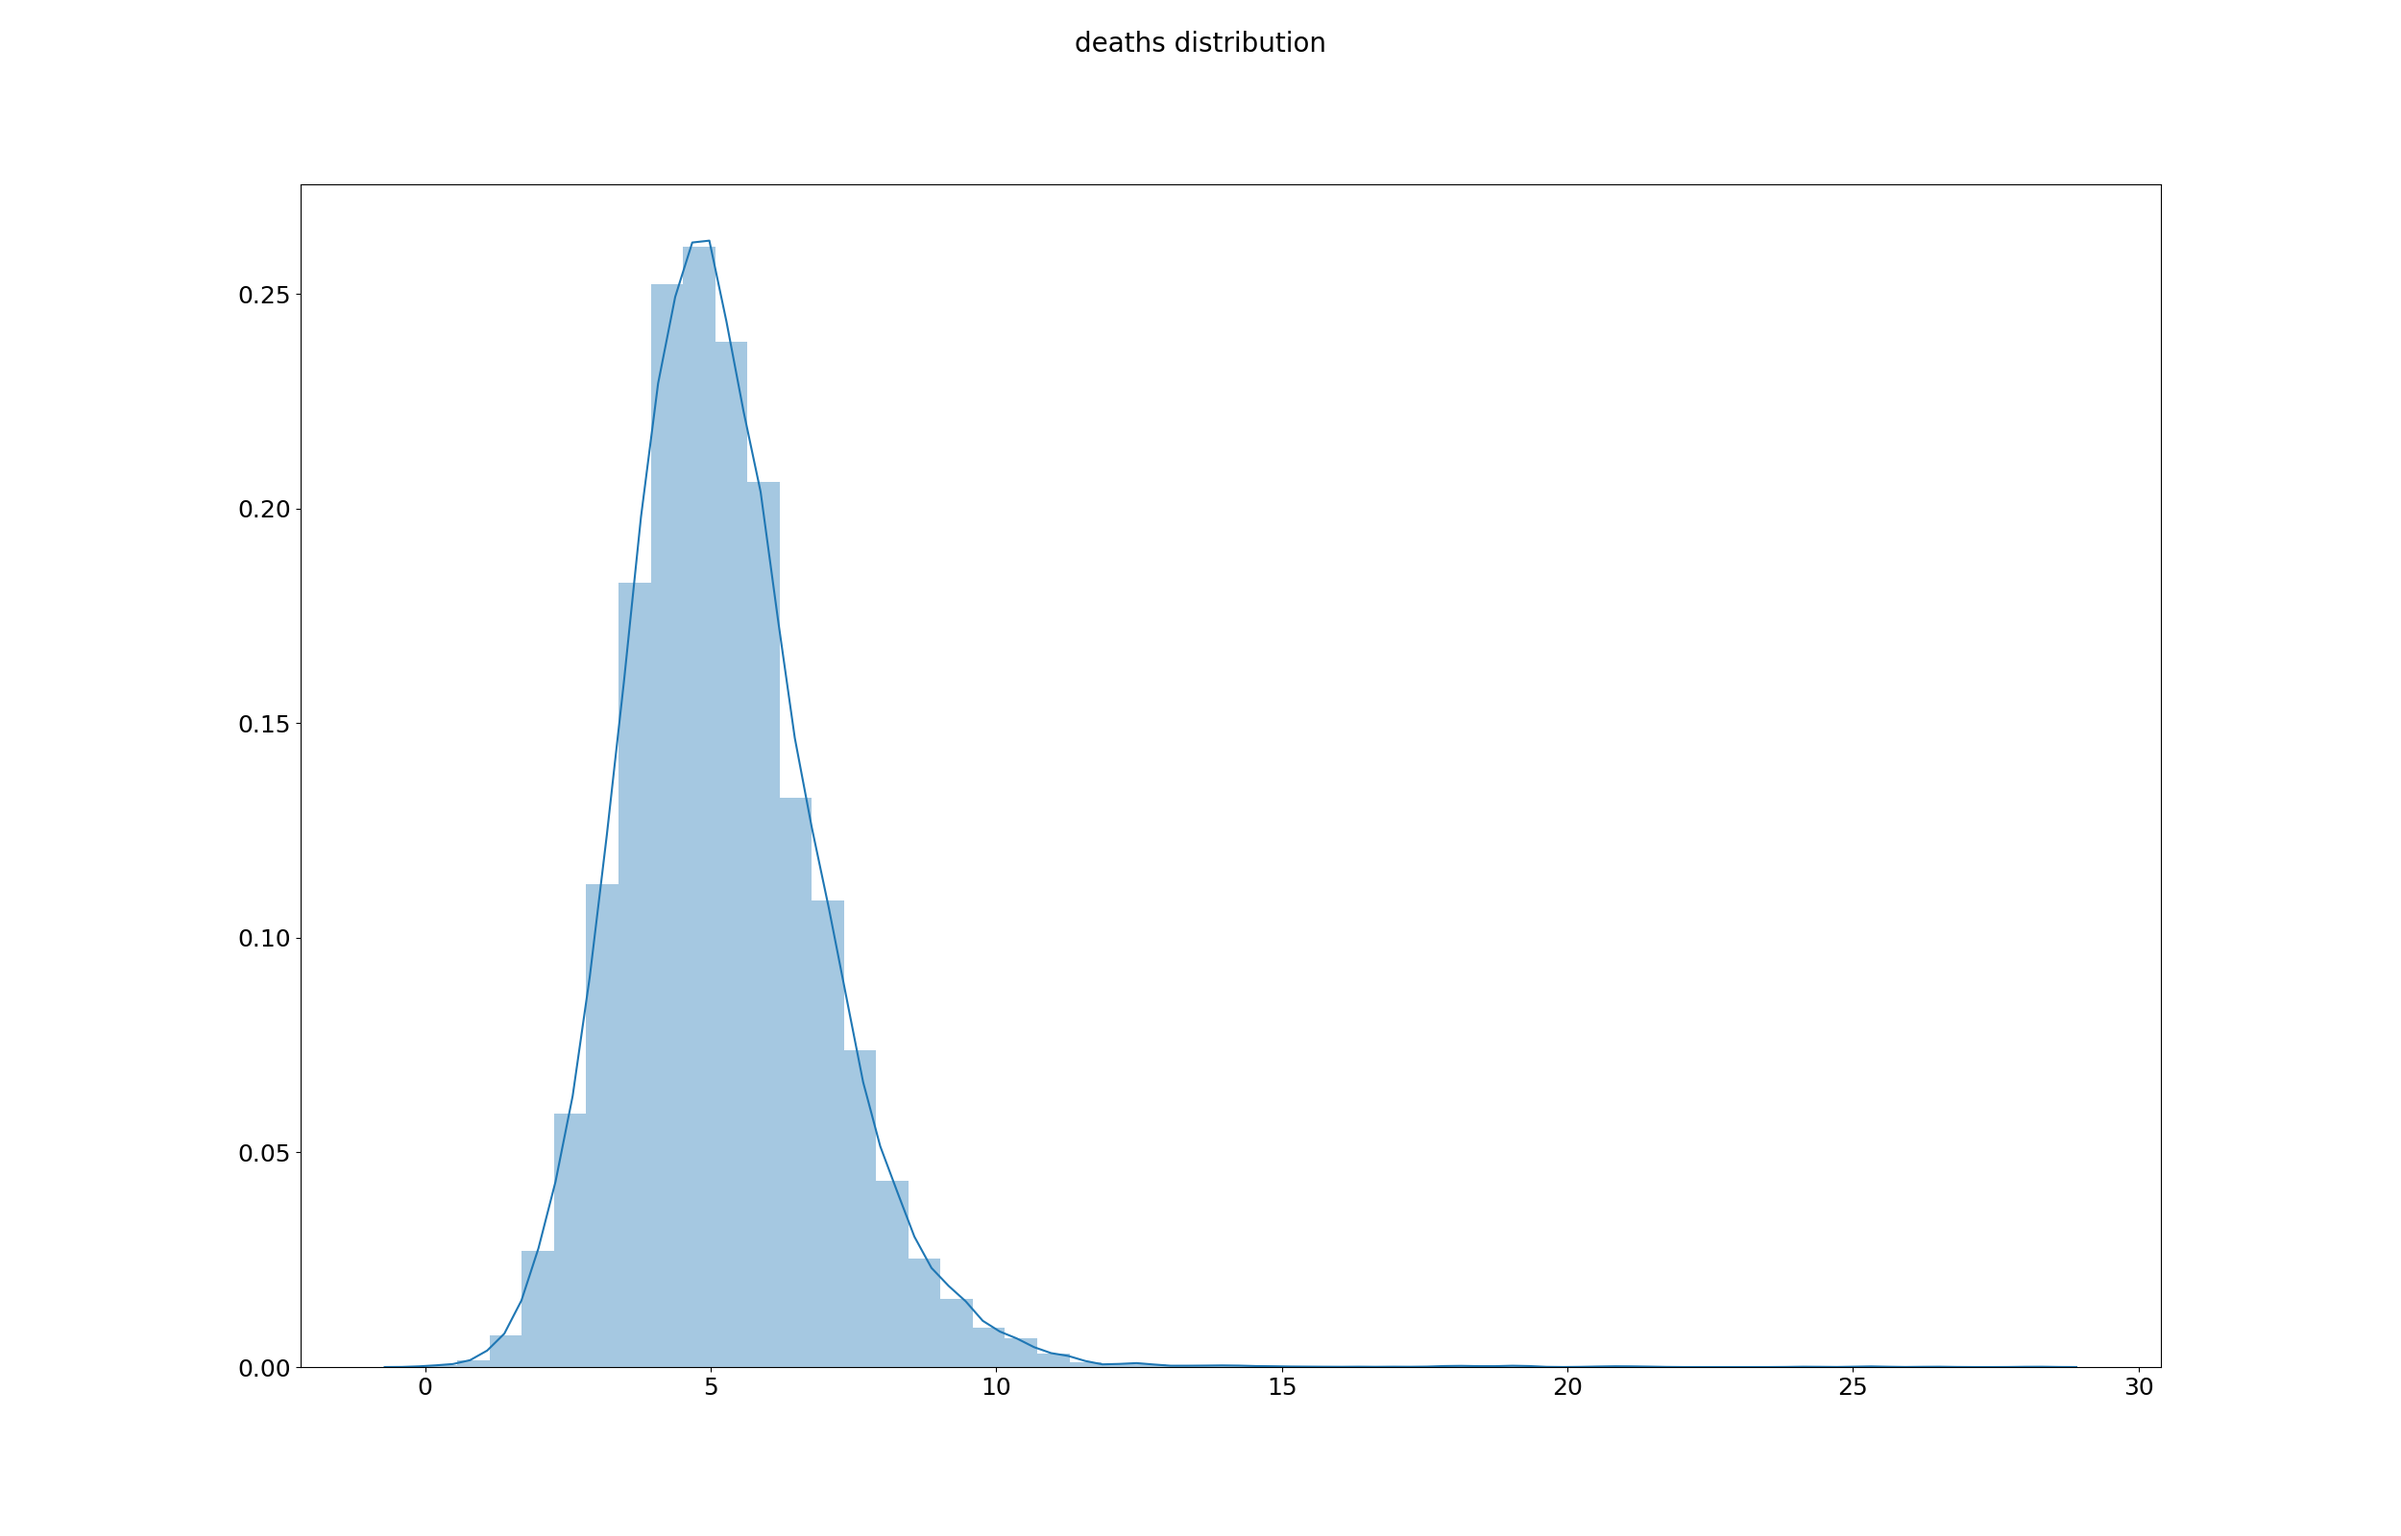
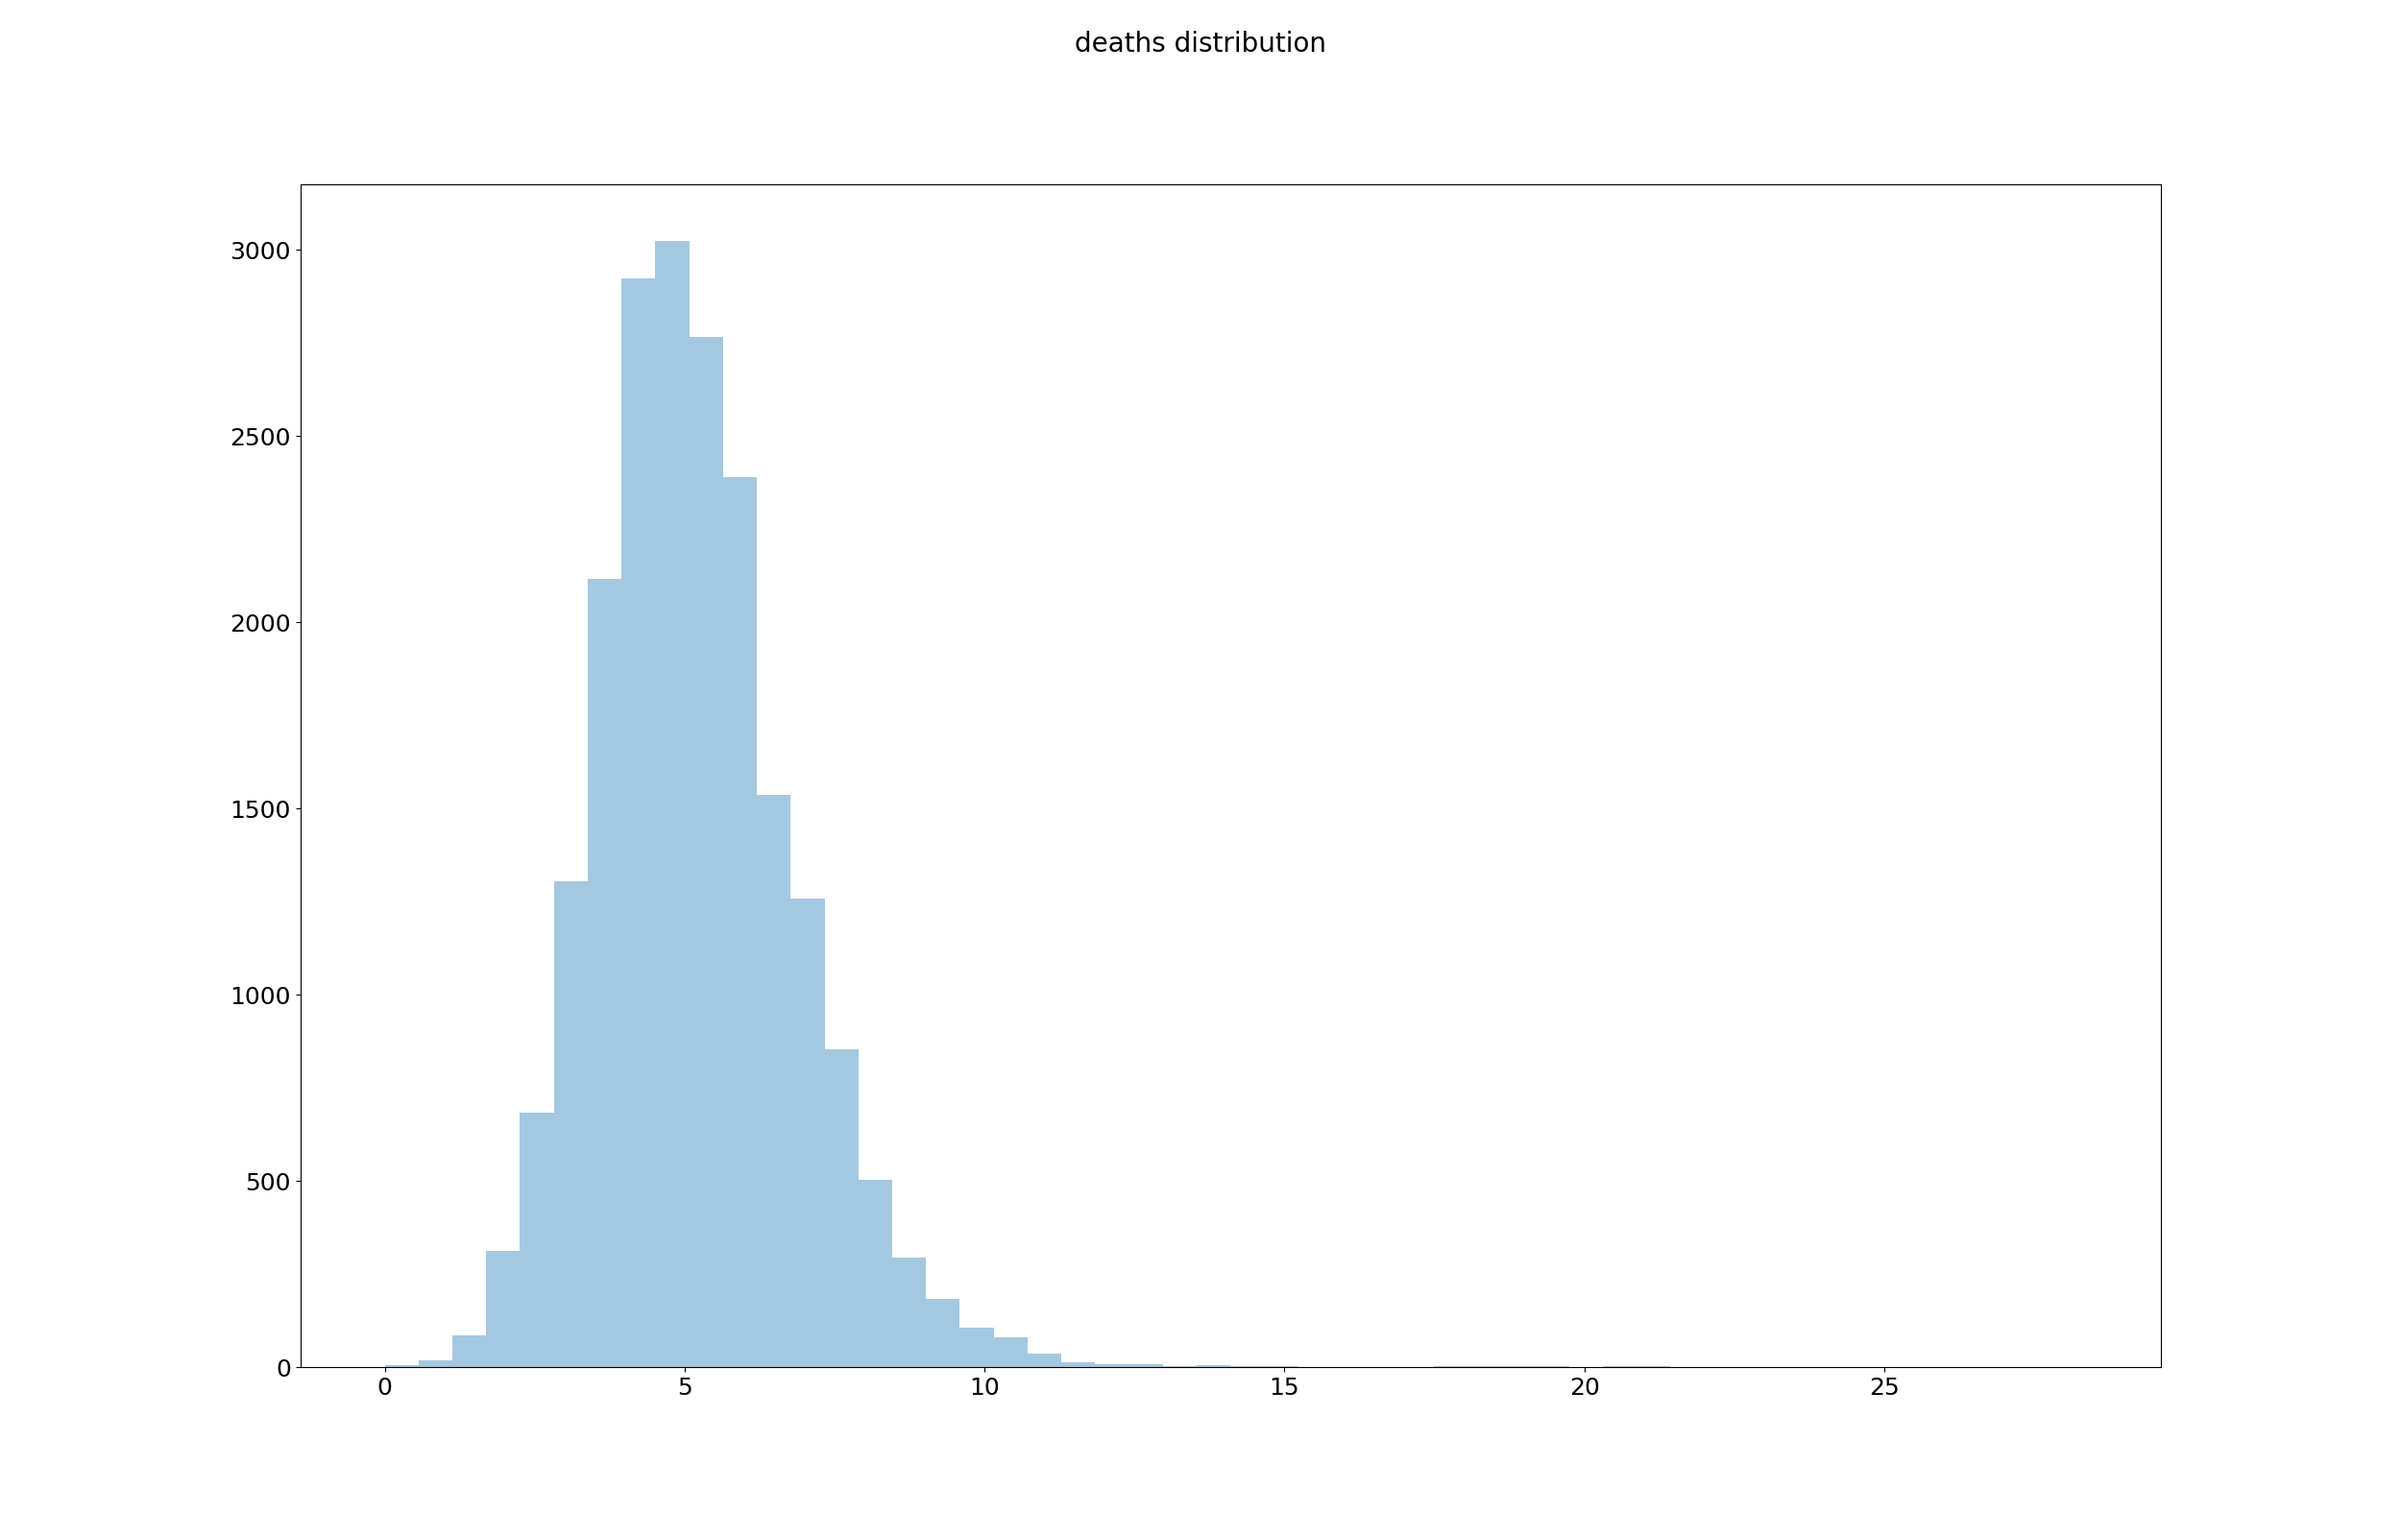
Fixed distribution plots

diff --git a/scripts/plot_distribution.py b/scripts/plot_distribution.py
@@ -6,24 +6,11 @@ import numpy as np
 import seaborn as sns
 import argparse
 import matplotlib.pyplot as plt
-import pandas as pd
-
-
-def normalizes(x):
-    x_norm = []
-    minimum = np.min(x, axis=0)
-    maximum = np.max(x, axis=0)
-    for i in x:
-        x_norm.append((i - minimum) / (maximum - minimum))
-
-    return x_norm
-
 
 def read_data(input_file):
     print('\nReading input data from file %s...' % input_file, end=' ')
 
     data = {}
-    data_corr = {}
     data['kills'] = []
     data['deaths'] = []
     data['assists'] = []
@@ -59,70 +46,86 @@ def read_data(input_file):
     return data
 
 
-def plot_distributions(data, attribute_names, plots_path, show_plots):
+def plot_distributions(data, attribute_names, plots_path, show_plots, norm=False):
     # config output images
     plt.rcParams["figure.figsize"] = (25, 16)
     plt.rcParams['font.size'] = 18.0
 
     for attr in attribute_names:
-        ax = sns.distplot(normalizes(data[attr]))
-        plt.suptitle(
-            attr + ' norm distribution', fontsize=20)
-        file_name = plots_path + attr + '_dist_norm.png'
+        if norm:
+            ax = sns.distplot(data[attr])
+        else:
+            ax = sns.distplot(data[attr], kde=False)
+        title = attr + ' distribution'
+        if norm:
+            title += ' - normalized'
+        plt.suptitle(title, fontsize=20)
+        file_name = plots_path + attr + '_dist'
+        if norm:
+            file_name += '_norm'
+        file_name += '.png'
         plt.savefig(file_name)
         print('Graph %s saved.' % file_name)
         if show_plots:
             plt.show()
         plt.clf()
 
-        ax = sns.distplot(data[attr])
-        plt.suptitle(attr + ' distribution', fontsize=20)
-        file_name = plots_path + attr + '_dist.png'
-        plt.savefig(file_name)
-        print('Graph %s saved.' % file_name)
-        if show_plots:
-            plt.show()
-        plt.clf()
-
-
-def plot_all_sep_distributions(data, attribute_names, plots_path, show_plots):
+def plot_all_sep_distributions(data, attribute_names, plots_path, show_plots, norm=False):
     # config output images
     plt.rcParams["figure.figsize"] = (25, 16)
     plt.rcParams['font.size'] = 18
 
-    f, axarr = plt.subplots(3, 3)
+    f, axarr = plt.subplots(3, 3, sharey=True)
 
     i = 0
     j = 0
 
     for attr in attribute_names:
-        sns.distplot(normalizes(data[attr]), ax=axarr[i, j])
-        axarr[i, j].set_title(attr + ' distribution')
+        if norm:
+            sns.distplot(data[attr], ax=axarr[i, j])
+        else:
+            sns.distplot(data[attr], ax=axarr[i, j], kde=False)
+        title = attr + ' distribution'
+        if norm:
+            title += ' - normalized'
+        axarr[i, j].set_title(title)
         j += 1
         if j == 3:
             j = 0
             i += 1
     if show_plots:
         plt.show()
-    file_name = plots_path + 'all_sep_dist.png'
+    file_name = plots_path + 'all_sep_dist'
+    if norm:
+        file_name += '_norm'
+    file_name += '.png'
     plt.savefig(file_name)
     print('Graph %s saved.' % file_name)
     plt.clf()
 
 
-def plot_all_distributions(data, attribute_names, plots_path, show_plots):
+def plot_all_distributions(data, attribute_names, plots_path, show_plots, norm=False):
     # config output images
     plt.rcParams["figure.figsize"] = (25, 16)
     plt.rcParams['font.size'] = 18
 
     for attr in attribute_names:
-        sns.distplot(normalizes(data[attr]), label=attr)
+        if norm:
+            sns.distplot(data[attr], label=attr)
+        else:
+            sns.distplot(data[attr], label=attr, kde=False)
 
-    plt.suptitle('All distributions', fontsize=20)
+    title = 'All distributions'
+    if norm:
+        title += ' - normalized'
+    plt.suptitle(title, fontsize=20)
     plt.legend()
     if show_plots:
         plt.show()
-    file_name = plots_path + 'all_dist.png'
+    file_name = plots_path + 'all_dist'
+    if norm:
+        file_name += '_norm'
+    file_name += '.png'
     plt.savefig(file_name)
     print('Graph %s saved.' % file_name)
     plt.clf()
@@ -135,9 +138,12 @@ def main():
         description='Plot the attributes distribution', prog="plot_distribution.py")
     parser.add_argument('--show', '-s', action='store_true',
                         help='shows the plots (defaut = False)')
+    parser.add_argument('--norm', '-n', action='store_true',
+                        help='normalize plots (defaut = False)')
 
     args = parser.parse_args()
     show_plots = args.show
+    norm = args.norm
 
     input_file = 'files/attributes.txt'
     plots_path = 'files/output_plot_distribution/'
@@ -155,10 +161,9 @@ def main():
     attribute_names['lh'] = ["lh"]
     attribute_names['xpm'] = ["xpm"]
 
-    plot_distributions(data, attribute_names, plots_path, show_plots)
-    plot_all_distributions(data, attribute_names, plots_path, show_plots)
-    plot_all_sep_distributions(data, attribute_names, plots_path, show_plots)
-
+    plot_distributions(data, attribute_names, plots_path, show_plots, norm)
+    plot_all_distributions(data, attribute_names, plots_path, show_plots, norm)
+    plot_all_sep_distributions(data, attribute_names, plots_path, show_plots, norm)
 
 if __name__ == "__main__":
     main()
